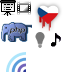
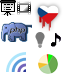
Add link to banking-grade HTTPS spreadsheet
Did use https://j.mp/bankshttpscz because screw redirects

Changed region(s): [[0.5938, 0.675, 0.9062, 0.925]]

diff --git a/site/public/www/i/css/screen.css b/site/public/www/i/css/screen.css
@@ -137,6 +137,11 @@ abbr.dtstart, abbr.dtend { border: none; }
     margin-left: -6px;
     margin-right: 2px;
 }
+#bankshttps {
+    background-position: -32px -48px;
+    margin-left: -6px;
+    margin-right: 2px;
+}
 #projekty h3 {
     float: left;
     line-height: 32px;
